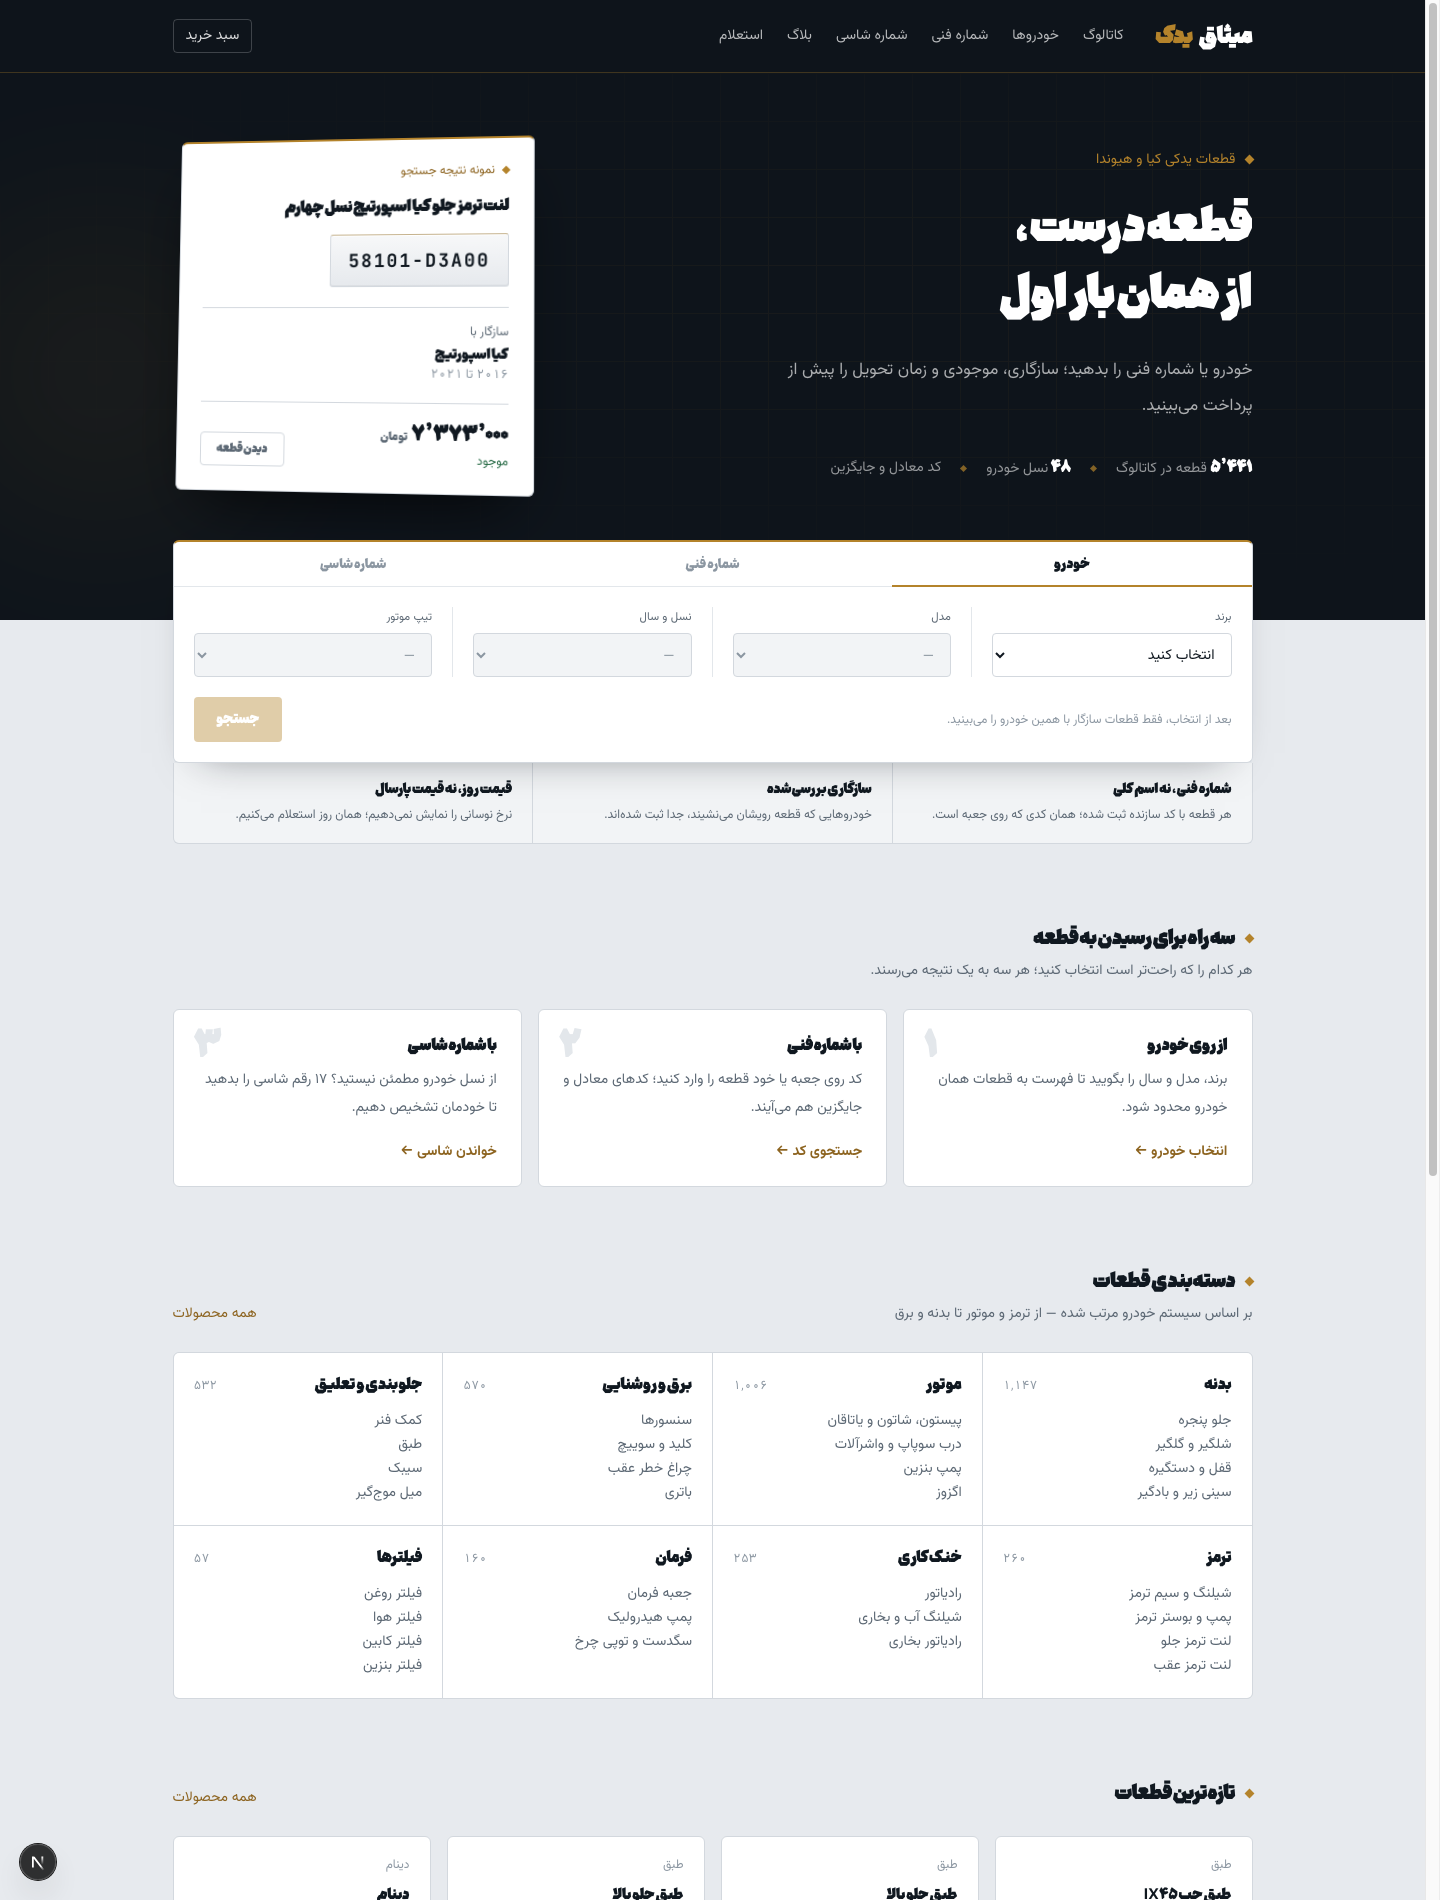
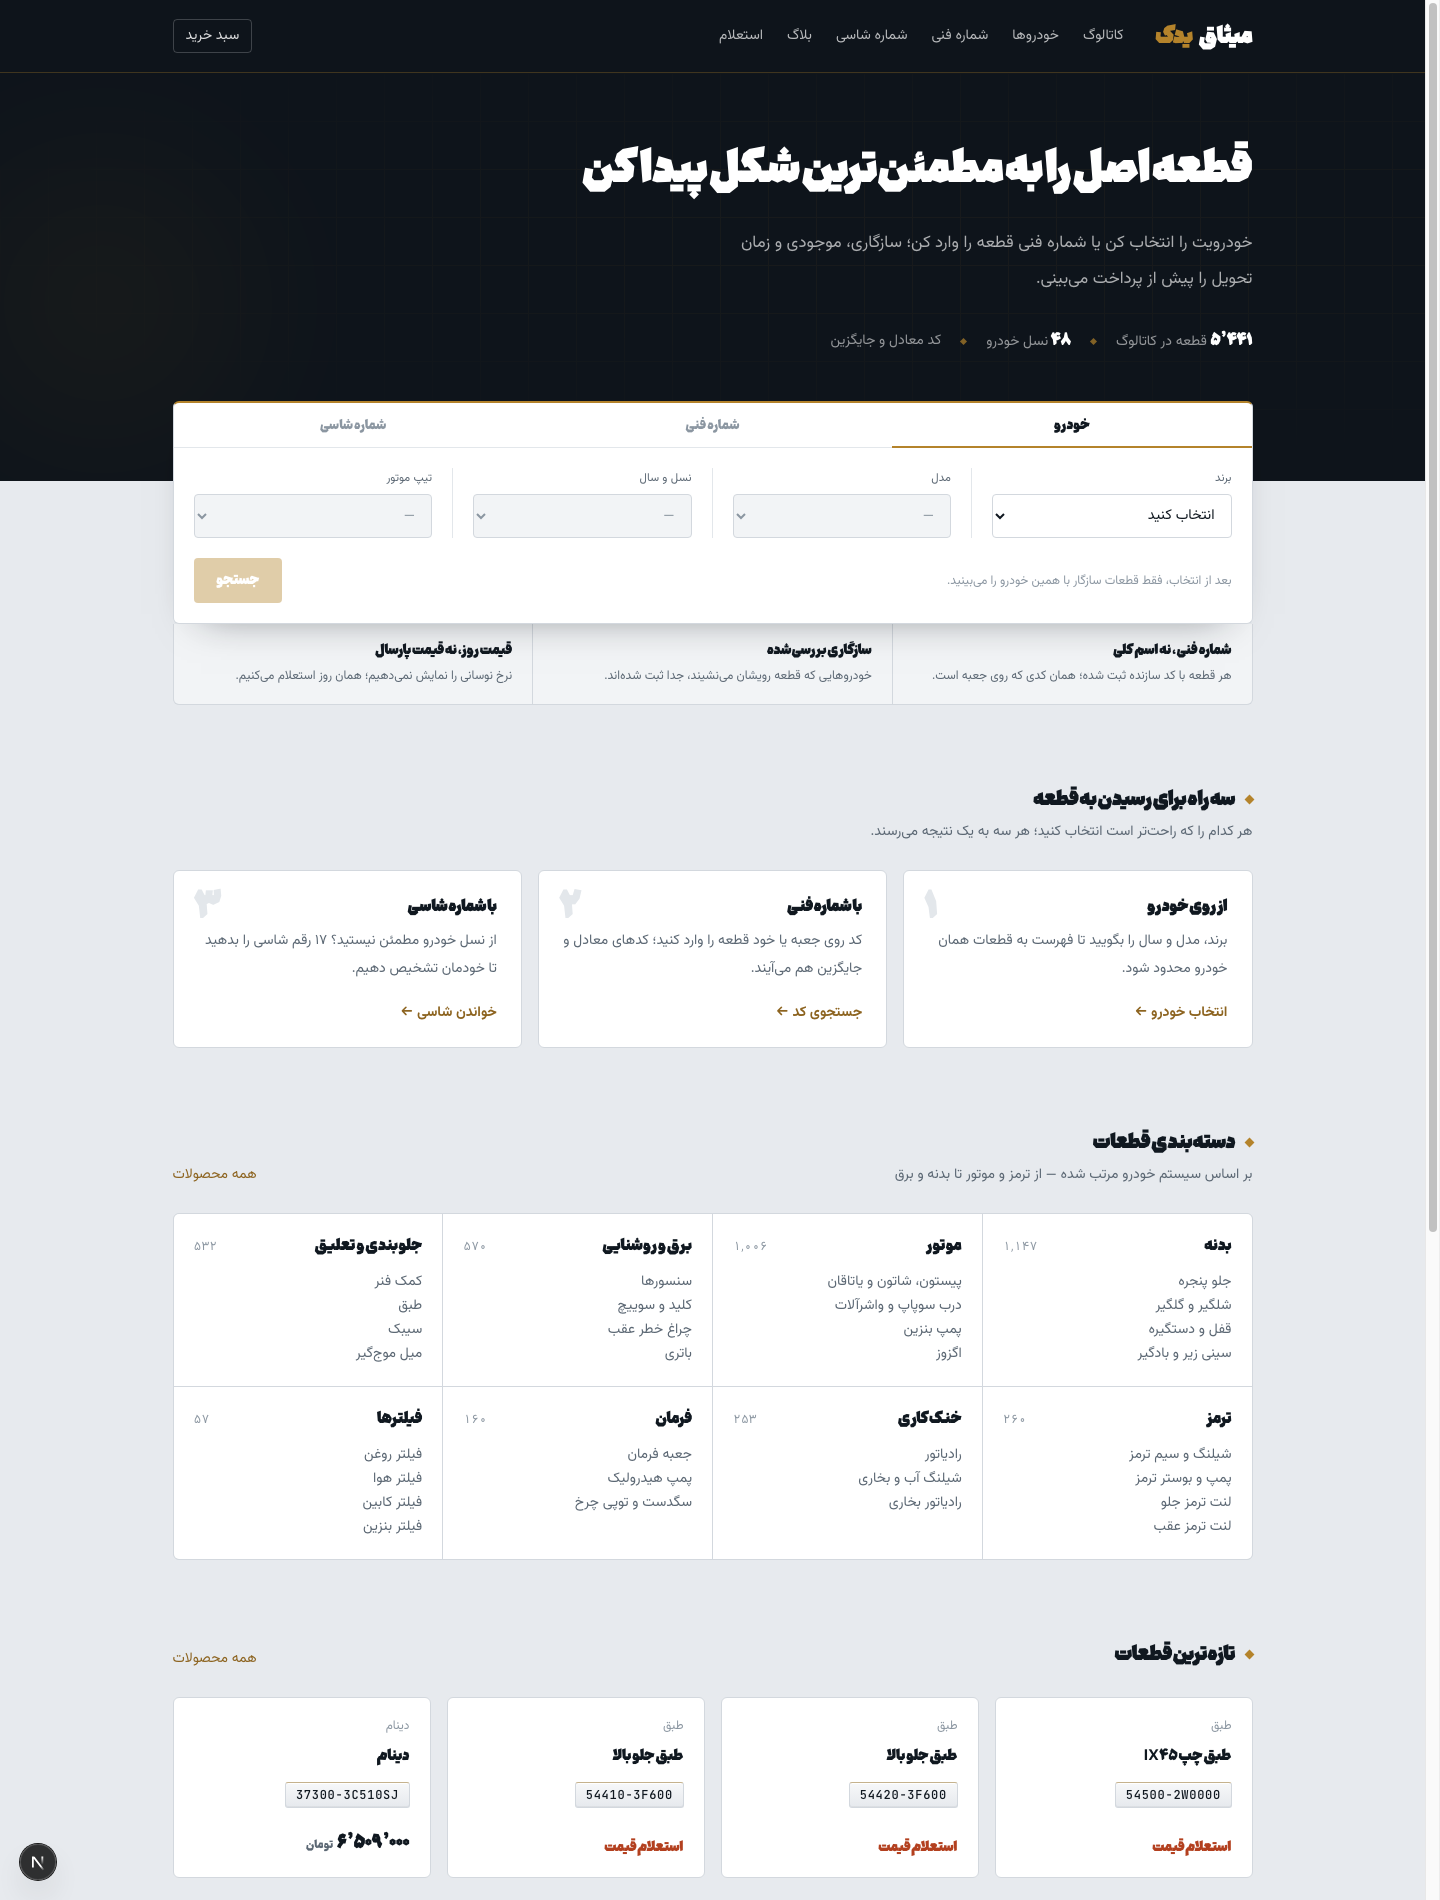
حذف برچسب بالای تیتر در سربرگ صفحه اصلی
- خط «قطعات یدکی کیا و هیوندا» بالای تیتر برداشته شد
- تصویر صفحه اصلی در README با سربرگ تازه بهروز شد

diff --git a/src/app/page.tsx b/src/app/page.tsx
@@ -149,37 +149,32 @@ export default async function HomePage() {
 
         <div className="relative mx-auto max-w-[1120px] px-5">
           <div className="max-w-3xl">
-              <div className="rise rise-1 flex items-center gap-2.5">
-                <span className="size-[7px] rotate-45 bg-brass" />
-                <span className="text-sm text-brass">قطعات یدکی کیا و هیوندا</span>
-              </div>
+            <h1 className="rise rise-1 max-w-2xl font-display text-[2rem] font-black leading-[1.5] sm:text-[2.75rem]">
+              قطعه اصل را به مطمئنترین شکل پیدا کن
+            </h1>
 
-              <h1 className="rise rise-1 max-w-2xl pt-6 font-display text-[2rem] font-black leading-[1.5] sm:text-[2.75rem]">
-                قطعه اصل را به مطمئنترین شکل پیدا کن
-              </h1>
+            <p className="rise rise-2 max-w-lg pt-6 text-[1.05rem] leading-9 text-white/65">
+              خودرویت را انتخاب کن یا شماره فنی قطعه را وارد کن؛ سازگاری، موجودی و زمان تحویل را
+              پیش از پرداخت میبینی.
+            </p>
 
-              <p className="rise rise-2 max-w-lg pt-6 text-[1.05rem] leading-9 text-white/65">
-                خودرویت را انتخاب کن یا شماره فنی قطعه را وارد کن؛ سازگاری، موجودی و زمان
-                تحویل را پیش از پرداخت میبینی.
-              </p>
-
-              {/* ریل آمار */}
-              <div className="rise rise-2 flex flex-wrap items-center gap-x-5 gap-y-3 pt-8 text-sm text-white/55">
-                <span className="tnum">
-                  <b className="font-display text-base font-black text-white">
-                    {faNumber(partCount)}
-                  </b>{" "}
-                  قطعه در کاتالوگ
-                </span>
-                <span className="size-[5px] rotate-45 bg-brass/70" />
-                <span className="tnum">
-                  <b className="font-display text-base font-black text-white">
-                    {faNumber(generationCount)}
-                  </b>{" "}
-                  نسل خودرو
-                </span>
-                <span className="size-[5px] rotate-45 bg-brass/70" />
-                <span>کد معادل و جایگزین</span>
+            {/* ریل آمار */}
+            <div className="rise rise-2 flex flex-wrap items-center gap-x-5 gap-y-3 pt-8 text-sm text-white/55">
+              <span className="tnum">
+                <b className="font-display text-base font-black text-white">
+                  {faNumber(partCount)}
+                </b>{" "}
+                قطعه در کاتالوگ
+              </span>
+              <span className="size-[5px] rotate-45 bg-brass/70" />
+              <span className="tnum">
+                <b className="font-display text-base font-black text-white">
+                  {faNumber(generationCount)}
+                </b>{" "}
+                نسل خودرو
+              </span>
+              <span className="size-[5px] rotate-45 bg-brass/70" />
+              <span>کد معادل و جایگزین</span>
             </div>
           </div>
         </div>
